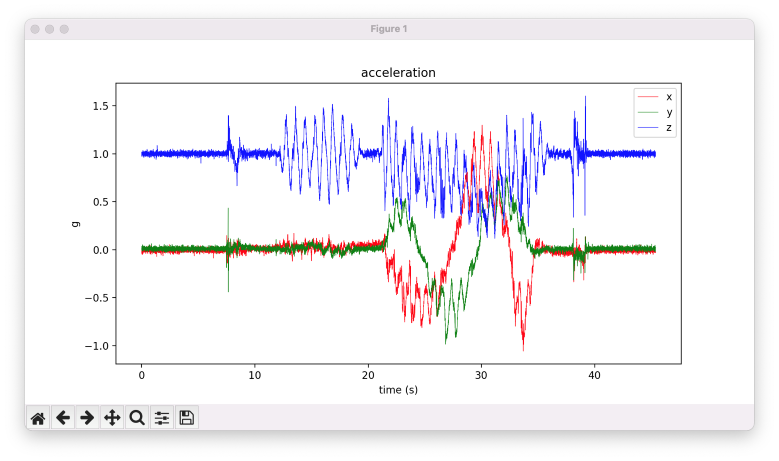
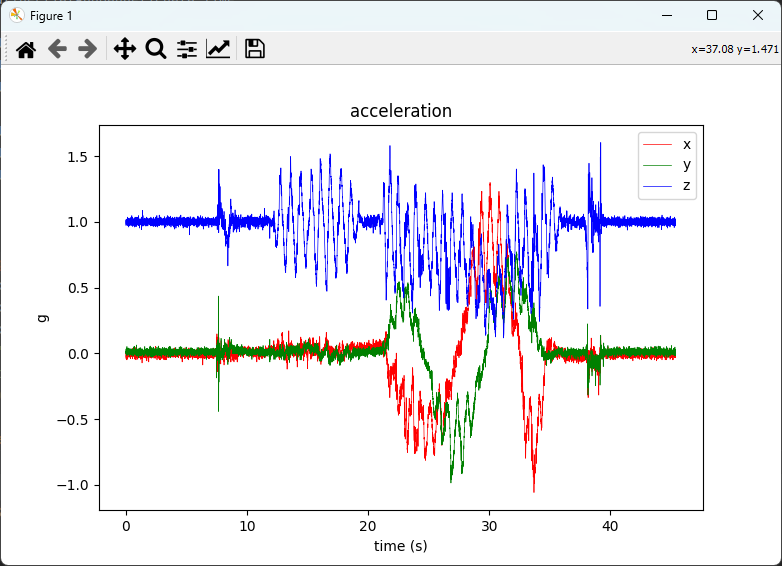
added new screenshots from python plotting

diff --git a/script.py b/script.py
@@ -49,7 +49,7 @@ acc = np.array([xIMUdata.CalInertialAndMagneticData.accelerometer[:, 0],
 
 # Plot
 
-fig = plt.figure(figsize=(10, 5))
+fig = plt.figure(figsize=(7.8, 5))
 plt.plot(x_time, acc[:, 0], c='r', linewidth=0.5)
 plt.plot(x_time, acc[:, 1], c='g', linewidth=0.5)
 plt.plot(x_time, acc[:, 2], c='b', linewidth=0.5)
@@ -59,7 +59,7 @@ plt.xlabel("time (s)")
 plt.ylabel("g")
 plt.show(block=False)
 
-fig = plt.figure(figsize=(10, 5))
+fig = plt.figure(figsize=(7.8, 5))
 plt.plot(x_time, gyr[:, 0], c='r', linewidth=0.5)
 plt.plot(x_time, gyr[:, 1], c='g', linewidth=0.5)
 plt.plot(x_time, gyr[:, 2], c='b', linewidth=0.5)
@@ -94,7 +94,7 @@ for i in range(length(acc)):
 
 # Plot
 
-fig = plt.figure(figsize=(10, 5))
+fig = plt.figure(figsize=(7.8, 5))
 plt.plot(x_time, tc_acc[:, 0], c='r', linewidth=0.5)
 plt.plot(x_time, tc_acc[:, 1], c='g', linewidth=0.5)
 plt.plot(x_time, tc_acc[:, 2], c='b', linewidth=0.5)
@@ -114,7 +114,7 @@ lin_acc *= 9.81  # convert from 'g' to m/s^2
 
 # Plot
 
-fig = plt.figure(figsize=(10, 5))
+fig = plt.figure(figsize=(7.8, 5))
 plt.plot(x_time, lin_acc[:, 0], c='r', linewidth=0.5)
 plt.plot(x_time, lin_acc[:, 1], c='g', linewidth=0.5)
 plt.plot(x_time, lin_acc[:, 2], c='b', linewidth=0.5)
@@ -133,7 +133,7 @@ for i in range(1, length(lin_acc)):
 
 # Plot
 
-fig = plt.figure(figsize=(10, 5))
+fig = plt.figure(figsize=(7.8, 5))
 plt.plot(x_time, lin_vel[:, 0], c='r', linewidth=0.5)
 plt.plot(x_time, lin_vel[:, 1], c='g', linewidth=0.5)
 plt.plot(x_time, lin_vel[:, 2], c='b', linewidth=0.5)
@@ -152,7 +152,7 @@ lin_vel_hp = filtfilt(b, a, lin_vel.T).T
 
 # Plot
 
-fig = plt.figure(figsize=(10, 5))
+fig = plt.figure(figsize=(7.8, 5))
 plt.plot(x_time, lin_vel_hp[:, 0], c='r', linewidth=0.5)
 plt.plot(x_time, lin_vel_hp[:, 1], c='g', linewidth=0.5)
 plt.plot(x_time, lin_vel_hp[:, 2], c='b', linewidth=0.5)
@@ -171,7 +171,7 @@ for i in range(1, length(lin_vel_hp)):
 
 # Plot
 
-fig = plt.figure(figsize=(10, 5))
+fig = plt.figure(figsize=(7.8, 5))
 plt.plot(x_time, lin_pos[:, 0], c='r', linewidth=0.5)
 plt.plot(x_time, lin_pos[:, 1], c='g', linewidth=0.5)
 plt.plot(x_time, lin_pos[:, 2], c='b', linewidth=0.5)
@@ -187,7 +187,7 @@ lin_pos_hp = filtfilt(b, a, lin_pos.T).T
 
 # Plot
 
-fig = plt.figure(figsize=(10, 5))
+fig = plt.figure(figsize=(7.8, 5))
 plt.plot(x_time, lin_pos_hp[:, 0], c='r', linewidth=0.5)
 plt.plot(x_time, lin_pos_hp[:, 1], c='g', linewidth=0.5)
 plt.plot(x_time, lin_pos_hp[:, 2], c='b', linewidth=0.5)
